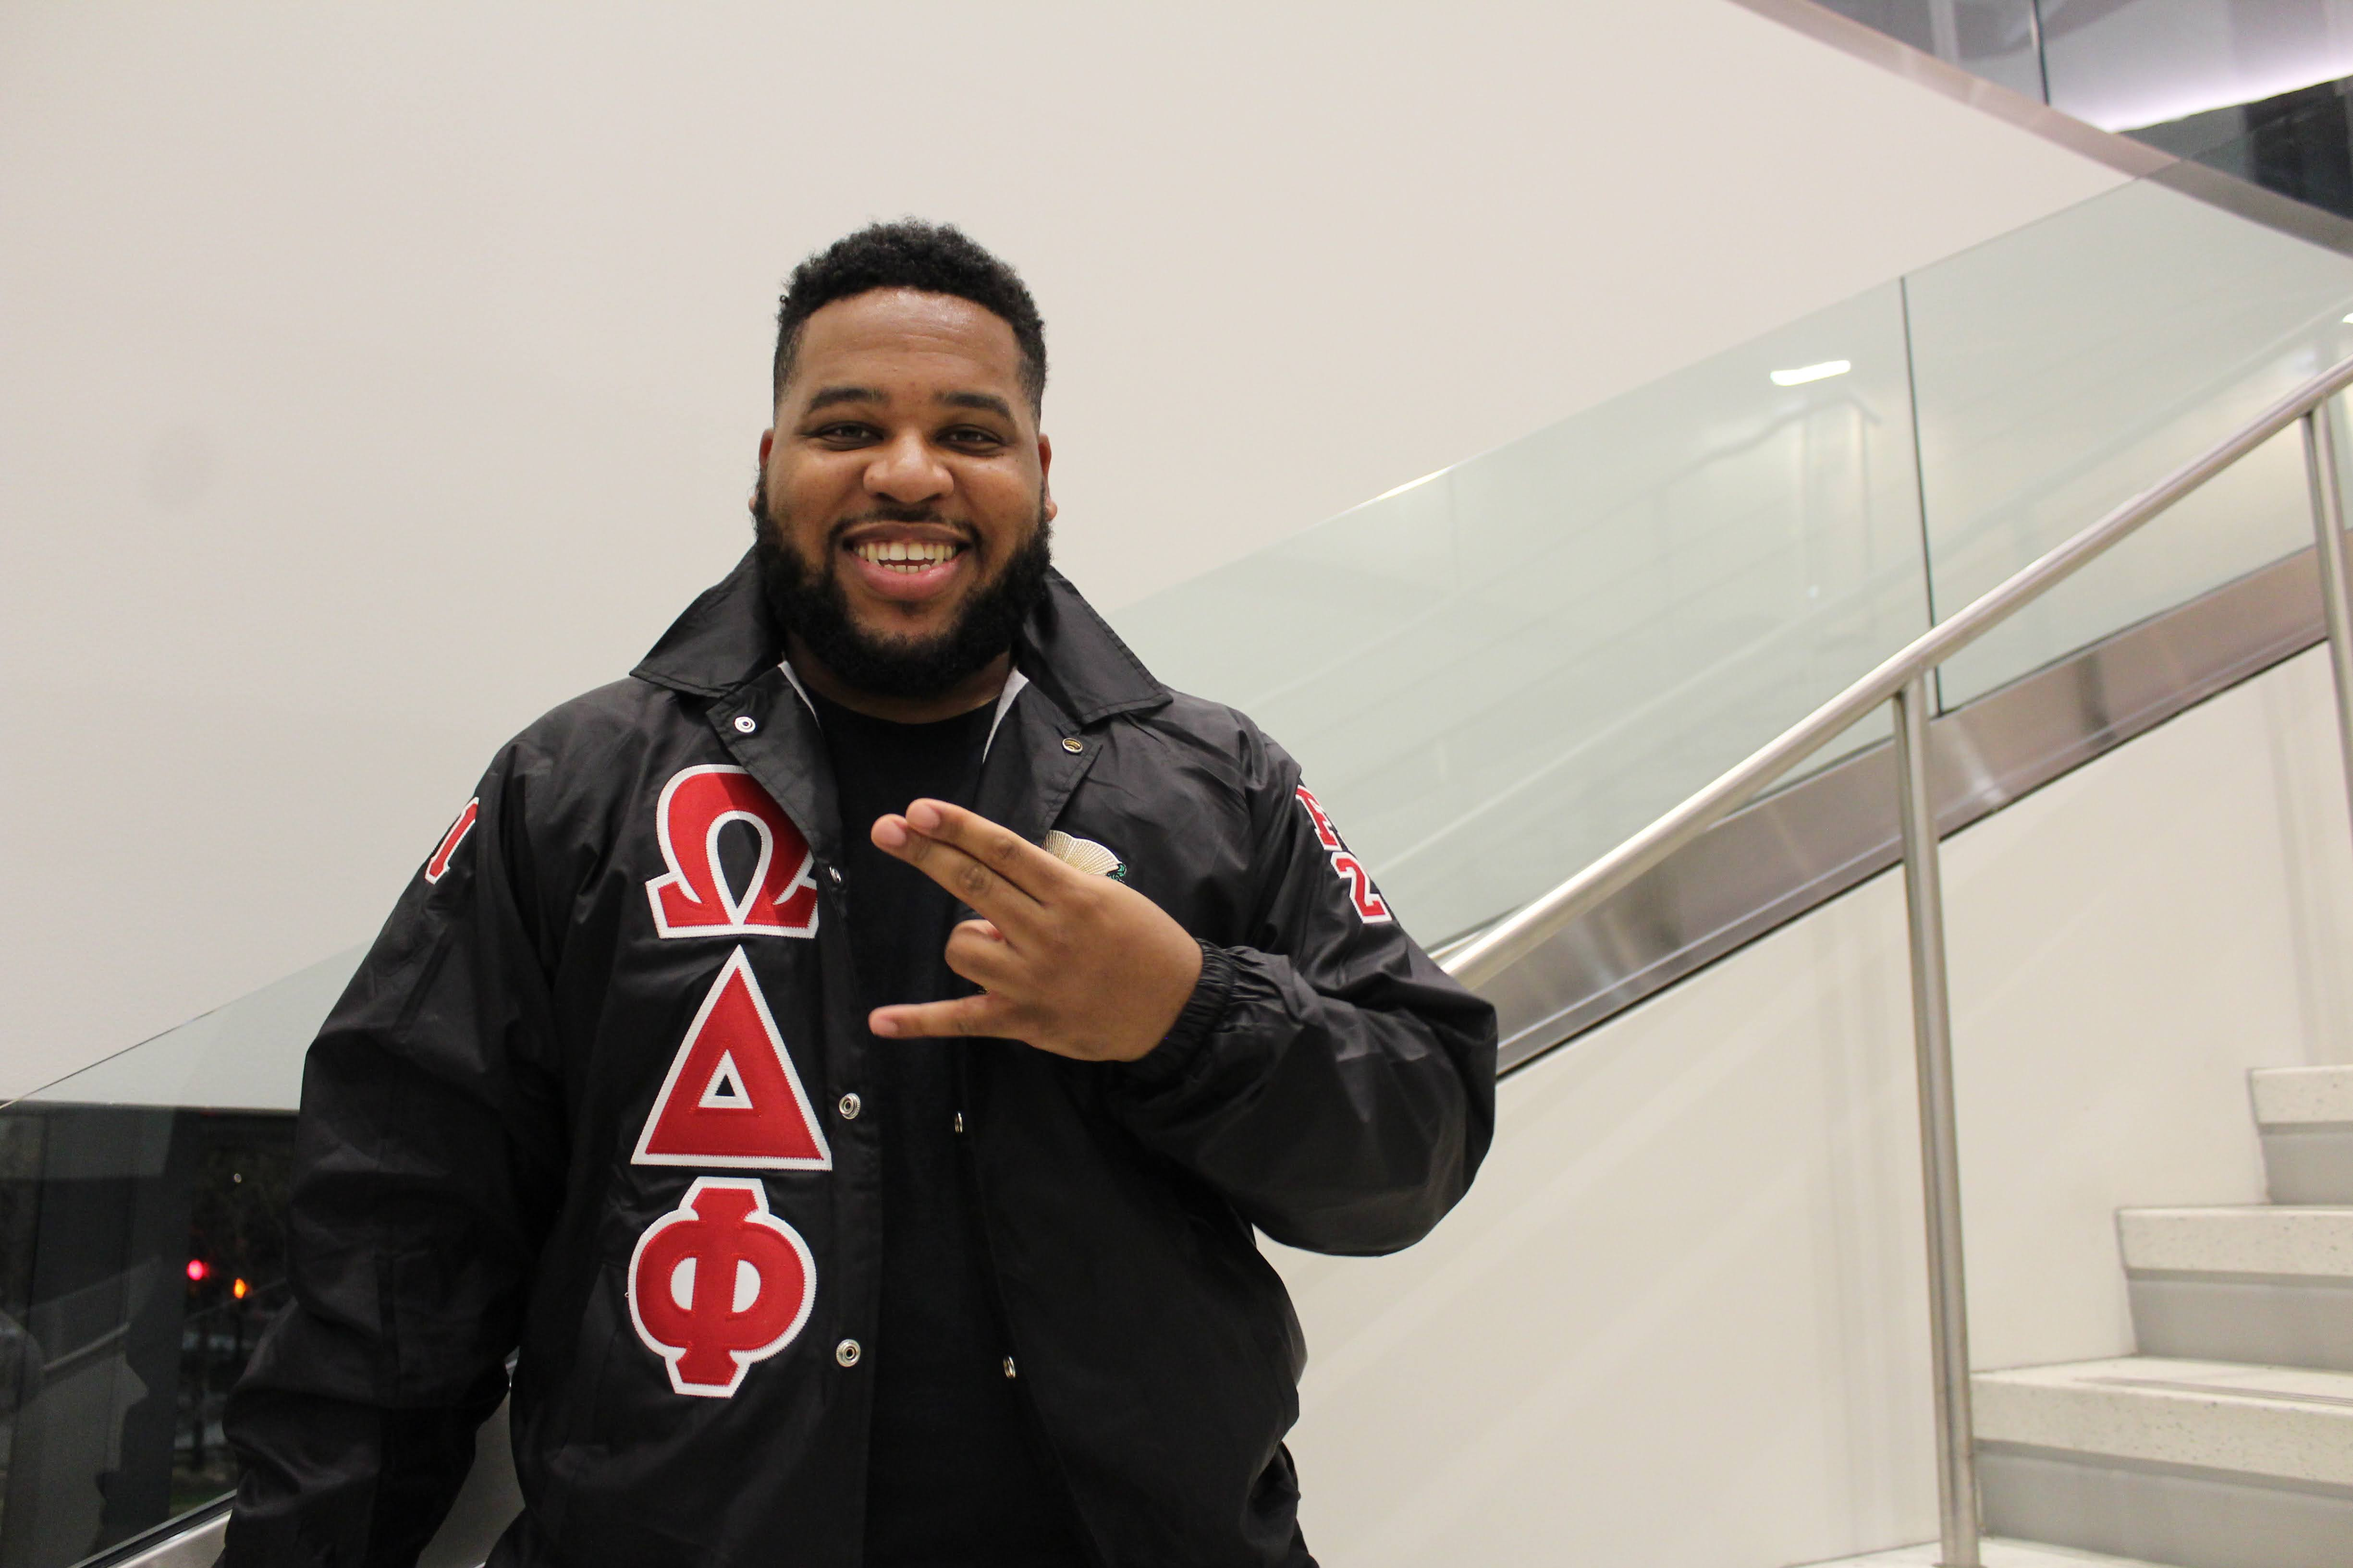
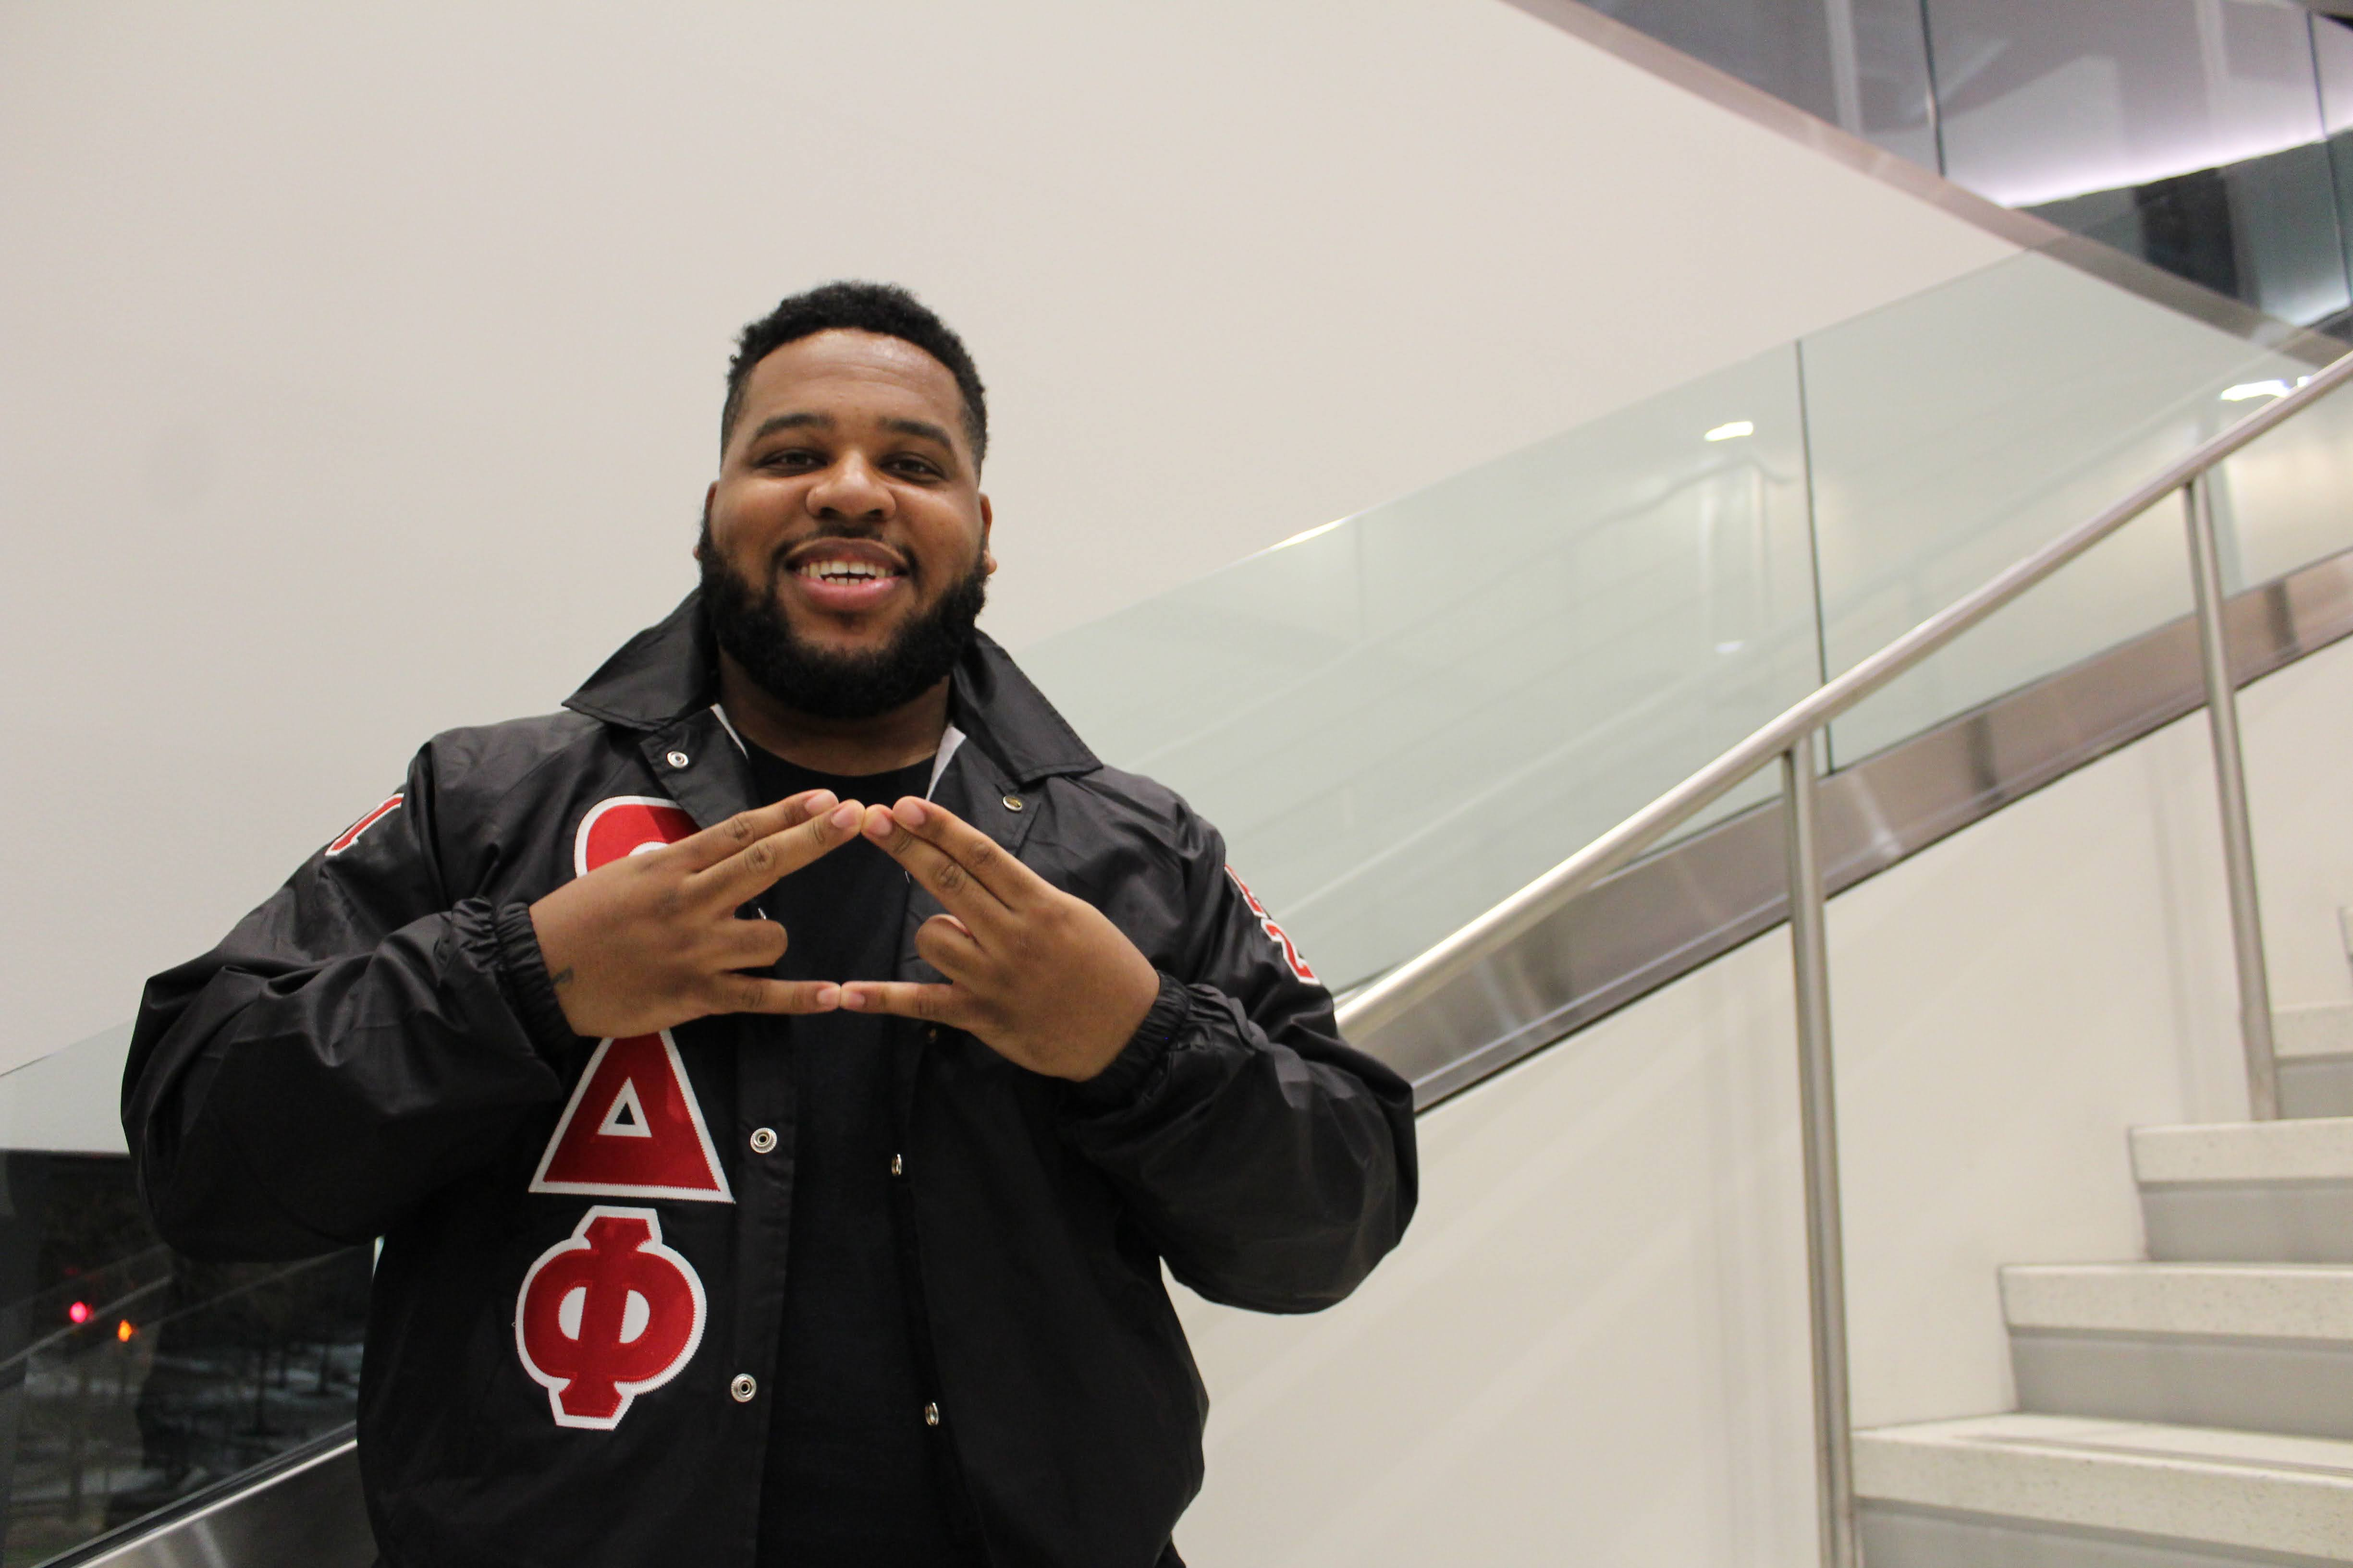
updated photos and gave some bros "graduate" status

diff --git a/odphi/src/app/gallery/page.tsx b/odphi/src/app/gallery/page.tsx
@@ -35,6 +35,8 @@ export default function Home() {
     "defaultGallery/img25.JPG",
     "defaultGallery/img26.JPG",
     "defaultGallery/img27.JPG",
+    "defaultGallery/img28.jpg",
+    "defaultGallery/img29.JPG",
   ]
 
   const goofy: string[] = [
@@ -59,6 +61,7 @@ export default function Home() {
     "goofyGallery/img19.JPG",
     "goofyGallery/img20.JPG",
     "goofyGallery/img21.JPG",
+    "goofyGallery/img22.jpg",
   ]
 
   return (
@@ -66,11 +69,11 @@ export default function Home() {
         <Header/>
        
         <div className={inter.className + " leading-[5rem] gallery-title section-header"}>ODPHI Memories</div>
-        <p className={inter.className + " gallery-body"}>Here are a couple of memorable photos from photoshoots, attending events, group pictures, and having a good time overall!</p>
+        <p className={inter.className + " gallery-body"}>Take a stroll through our collection of cherished moments captured during photoshoots, events, group gatherings, ceremonies, and simply enjoying life's pleasures. These snapshots offer a glimpse into the genuine joy and camaraderie shared among us. Join us in reminiscing about these heartwarming memories!</p>
         <Gallery images={memories}/>
 
         <div className={inter.className + " leading-[5rem] gallery-title section-header"}>Picture-Perfect Realness</div>
-        <p className={inter.className + " gallery-body"}>Here we offer a candid and heartwarming glimpse into the true essence of ODPHI, capturing the unscripted moments where we embrace our goofy, unified, and authentic selves, celebrating the genuine bonds that make our fraternity special!</p>
+        <p className={inter.className + " gallery-body"}>Explore a heartfelt portrayal of ODPHI's essence, showcasing candid moments that reflect our shared spirit of camaraderie and authenticity. These genuine snapshots capture our playful, unified selves, celebrating the unique bonds that define our fraternity's identity. Join us in savoring these unscripted glimpses into what makes our brotherhood truly special.</p>
         <Gallery images={goofy}/>
 
         <p className={inter.className + " text-[20px] mb-[2rem] mt-[5rem] ml-[5rem] mr-[5rem] text-center"}><i>&quot;And that&apos;s on Joe Cereceres&quot;</i> - Jose Mendez</p>

diff --git a/odphi/src/app/socials/page.tsx b/odphi/src/app/socials/page.tsx
@@ -24,6 +24,7 @@ export default function Home() {
     "socialGallery/social14.JPG",
     "socialGallery/social15.JPG",
     "socialGallery/social16.JPG",
+    "socialGallery/social17.jpg"
   ]
 
   return (
